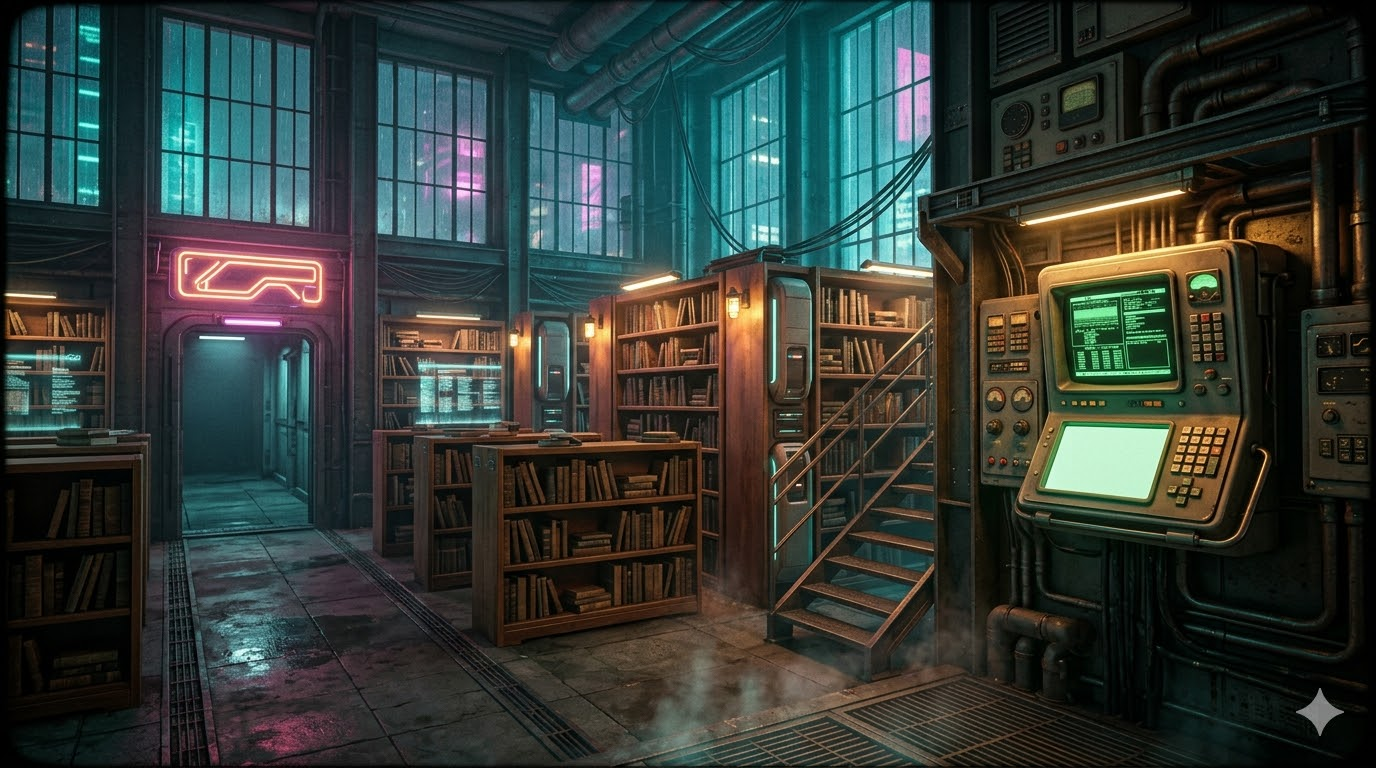
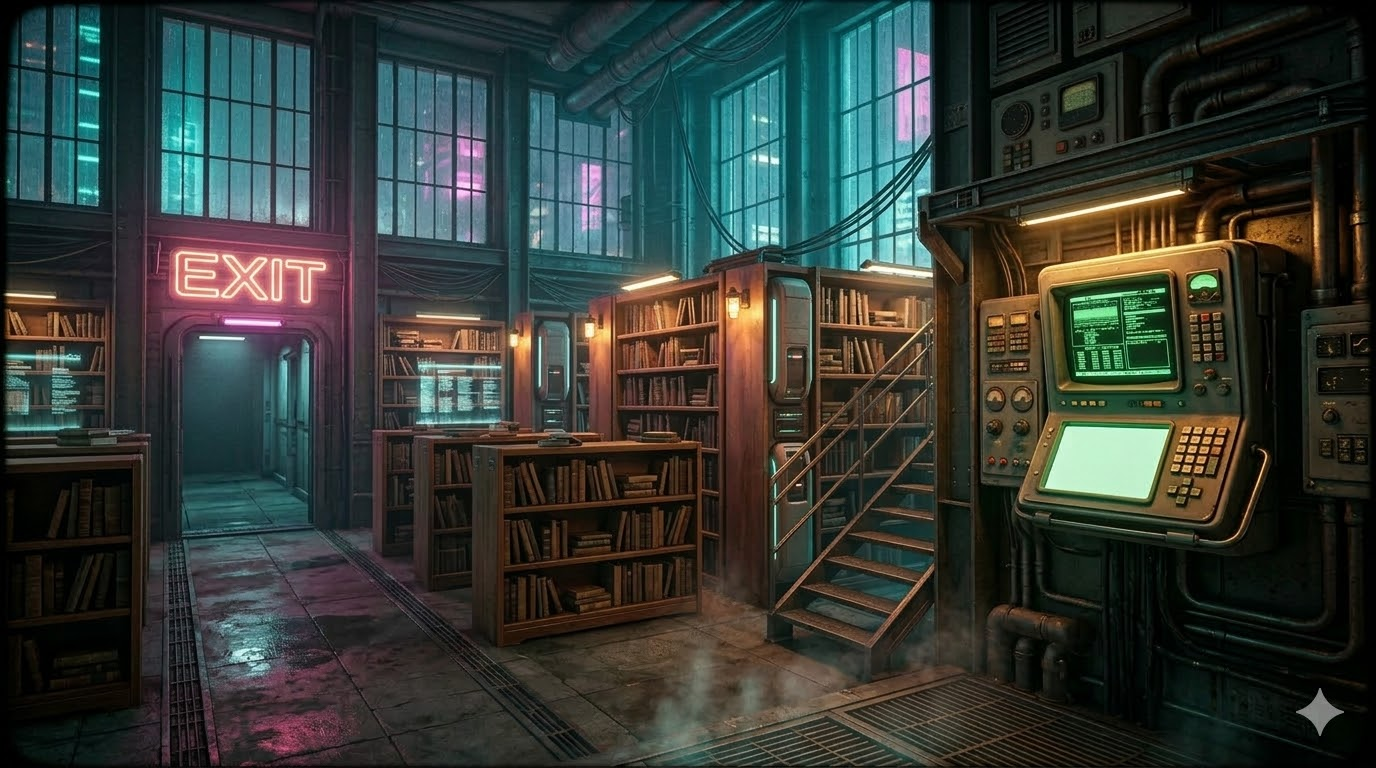
City: Doors list from current scene only — update on setScene and postMessage(file), no iframe read; gesture-bridge sends file
Made-with: Cursor

diff --git a/city/shell.html b/city/shell.html
@@ -60,7 +60,7 @@
       display: flex;
       flex-wrap: wrap;
       align-items: flex-start;
-      justify-content: space-between;
+      justify-content: flex-end;
       gap: 0.5rem;
       padding: 0.5rem 0.75rem;
       pointer-events: none;
@@ -123,52 +123,90 @@
       box-shadow: 0 0 14px rgb(var(--accent-rgb) / 0.2);
     }
 
-    .chrome .links {
-      max-width: 34rem;
-      border: 1px solid rgb(var(--accent-rgb) / 0.2);
-      border-radius: 12px;
-      background: rgb(6 12 18 / 0.35);
-      backdrop-filter: blur(16px);
-      -webkit-backdrop-filter: blur(16px);
-      padding: 0.4rem 0.6rem;
-      box-shadow:
-        0 0 20px rgb(var(--accent-rgb) / 0.05),
-        inset 0 1px 0 rgb(255 255 255 / 0.04);
-    }
-    .chrome .links summary {
-      cursor: pointer;
-      color: var(--text);
-      font-size: 0.9rem;
+    .chrome .controls .links {
       display: flex;
       align-items: center;
-      gap: 0.4rem;
+      position: relative;
+      border: none;
+      background: transparent;
+      padding: 0;
+      margin: 0;
+      max-width: none;
     }
-    .chrome .links summary::before {
+    .chrome .controls .links summary {
+      cursor: pointer;
+      list-style: none;
+      display: flex;
+      align-items: center;
+      justify-content: center;
+      min-width: 2.5rem;
+      min-height: 2.5rem;
+      padding: 0;
+      border: 1px solid transparent;
+      border-radius: 10px;
+      background: rgb(255 255 255 / 0.03);
+      font-size: 1.25rem;
+      line-height: 1;
+      color: var(--text-muted);
+      transition: border-color 0.15s, box-shadow 0.15s, background 0.15s;
+    }
+    .chrome .controls .links summary::-webkit-details-marker,
+    .chrome .controls .links summary::marker { display: none; }
+    .chrome .controls .links summary::before {
       content: "🗺";
       font-size: 1.1rem;
     }
-    .chrome .links p {
-      margin: 0.3rem 0 0.45rem;
+    .chrome .controls .links summary:hover {
+      background: rgb(var(--accent-rgb) / 0.08);
+      border-color: rgb(var(--accent-rgb) / 0.4);
+      box-shadow: 0 0 12px rgb(var(--accent-rgb) / 0.15);
+    }
+    .chrome .controls .links summary:focus-visible {
+      outline: 2px solid rgb(var(--accent-rgb) / 0.5);
+      outline-offset: 2px;
+    }
+    .chrome .controls .links[open] summary {
+      background: rgb(var(--accent-rgb) / 0.12);
+      border-color: rgb(var(--accent-rgb) / 0.45);
+      box-shadow: 0 0 14px rgb(var(--accent-rgb) / 0.2);
+    }
+    .chrome .controls .links .links-dropdown {
+      position: absolute;
+      bottom: 100%;
+      right: 0;
+      margin: 0 0 0.35rem 0;
+      padding: 0.4rem 0.6rem;
+      border-radius: 12px;
+      background: rgb(6 14 22 / 0.96);
+      border: 1px solid rgb(var(--accent-rgb) / 0.2);
+      box-shadow: 0 0 20px rgb(var(--accent-rgb) / 0.08);
+      min-width: 14rem;
+      max-width: 34rem;
+      max-height: 60vh;
+      overflow: auto;
+    }
+    .chrome .controls .links .links-dropdown p {
       color: var(--text-muted);
       font-size: 0.82rem;
+      margin: 0 0 0.25rem 0;
     }
-    .chrome .links ul {
+    .chrome .controls .links .links-dropdown ul {
       list-style: none;
       padding: 0;
-      margin: 0.45rem 0 0;
+      margin: 0;
       display: grid;
       gap: 0.35rem;
     }
-    .chrome .links a {
+    .chrome .controls .links a {
       color: var(--text);
       text-decoration: none;
       border-bottom: 1px solid transparent;
     }
-    .chrome .links a:hover {
+    .chrome .controls .links a:hover {
       color: rgb(var(--accent-rgb));
       border-bottom-color: rgb(var(--accent-rgb) / 0.55);
     }
-    .chrome .links a:focus-visible {
+    .chrome .controls .links a:focus-visible {
       outline: 2px solid rgb(var(--accent-rgb) / 0.45);
       outline-offset: 2px;
       border-bottom-color: transparent;
@@ -223,13 +261,14 @@
       <button type="button" id="fullscreen-toggle" class="fullscreen-btn" aria-label="Fullscreen" title="Fullscreen">⛶</button>
       <button type="button" id="spot-toggle" aria-pressed="false" aria-label="Toggle flashlight" title="Flashlight">🔦</button>
       <button type="button" id="music-toggle" aria-pressed="false" aria-label="Toggle music" title="Music — Neon Drift">🎵</button>
-      <a href="../index.html" target="_top" aria-label="Exit" title="Exit">⬅</a>
+      <details class="links" id="shell-links">
+        <summary aria-label="Doors / Scene links"></summary>
+        <div class="links-dropdown">
+          <p id="shell-links-desc">Doors and signs in this scene.</p>
+          <ul id="shell-links-list"></ul>
+        </div>
+      </details>
     </div>
-    <details class="links" id="shell-links">
-      <summary aria-label="Doors / Scene links">Doors</summary>
-      <p id="shell-links-desc">Doors and signs in this scene.</p>
-      <ul id="shell-links-list"></ul>
-    </details>
   </div>
   <iframe class="frame" id="city-frame" src="index.html" title="City"></iframe>
   <div class="spot-overlay" id="spot-overlay" aria-hidden="true"></div>
@@ -243,12 +282,16 @@
       var frame = document.getElementById('city-frame');
       if (!frame) return;
 
+      var currentSceneFile = 'index.html';
+
       function setScene(path) {
         if (!path) return;
         if (/^(https?:|data:|blob:|javascript:)/i.test(path)) return;
         if (path.indexOf('..') !== -1) return;
         if (path.indexOf('/') !== -1) return;
         if (!/\.html($|\?)/i.test(path)) return;
+        currentSceneFile = path.split('?')[0].split('/').pop() || path;
+        updateDoorsList(currentSceneFile);
         frame.src = path;
       }
 
@@ -308,15 +351,6 @@
         ]
       };
 
-      function getFrameFilename() {
-        try {
-          var src = frame.src || '';
-          var path = src.split('?')[0] || '';
-          var name = path.split('/').pop() || '';
-          return name || 'index.html';
-        } catch (e) { return 'index.html'; }
-      }
-
       function addLinkToList(list, item) {
         var li = document.createElement('li');
         var newA = document.createElement('a');
@@ -339,67 +373,26 @@
         list.appendChild(li);
       }
 
-      function syncLinksFromFrame() {
+      function updateDoorsList(file) {
         var list = document.getElementById('shell-links-list');
-        var desc = document.getElementById('shell-links-desc');
         if (!list) return;
         list.innerHTML = '';
-        var hasLinks = false;
-        try {
-          var doc = frame.contentDocument;
-          if (doc) {
-            var sceneLinks = doc.querySelector('.links');
-            if (sceneLinks) {
-              var summaryEl = sceneLinks.querySelector('summary');
-              var pEl = sceneLinks.querySelector('p');
-              var ul = sceneLinks.querySelector('ul');
-              if (summaryEl) {
-                var shellSummary = document.querySelector('#shell-links summary');
-                if (shellSummary) shellSummary.textContent = summaryEl.textContent;
-              }
-              if (pEl && desc) desc.textContent = pEl.textContent;
-              if (ul) {
-                var links = ul.querySelectorAll('a');
-                for (var i = 0; i < links.length; i++) {
-                  var a = links[i];
-                  var li = document.createElement('li');
-                  var newA = document.createElement('a');
-                  var href = a.getAttribute('href') || '';
-                  newA.textContent = a.textContent.trim();
-                  newA.setAttribute('href', href);
-                  if (/^https?:/i.test(href)) {
-                    newA.setAttribute('target', '_blank');
-                    newA.setAttribute('rel', 'noopener');
-                  } else {
-                    newA.addEventListener('click', function (e) {
-                      var targetHref = this.getAttribute('href');
-                      if (targetHref && !/^https?:/i.test(targetHref)) {
-                        e.preventDefault();
-                        setScene(targetHref);
-                      }
-                    });
-                  }
-                  li.appendChild(newA);
-                  list.appendChild(li);
-                  hasLinks = true;
-                }
-              }
-            }
-          }
-        } catch (err) {}
-        if (!hasLinks && list.children.length === 0) {
-          var filename = getFrameFilename();
-          var items = FALLBACK_LINKS[filename];
-          if (items) {
-            for (var j = 0; j < items.length; j++) addLinkToList(list, items[j]);
-          }
+        var items = FALLBACK_LINKS[file];
+        if (items) {
+          for (var i = 0; i < items.length; i++) addLinkToList(list, items[i]);
         }
       }
 
-      frame.addEventListener('load', syncLinksFromFrame);
-      if (frame.contentDocument && frame.contentDocument.readyState === 'complete') {
-        syncLinksFromFrame();
-      }
+      window.addEventListener('message', function (e) {
+        if (!e || !e.data || e.data.type !== 'city:scene') return;
+        var file = e.data.file;
+        if (file && typeof file === 'string') {
+          currentSceneFile = file.split('?')[0].split('/').pop() || file;
+          updateDoorsList(currentSceneFile);
+        }
+      });
+
+      updateDoorsList(currentSceneFile);
 
       var reduceMotion = window.matchMedia && window.matchMedia('(prefers-reduced-motion: reduce)').matches;
       var spotKey = 'city-flashlight';
@@ -410,7 +403,7 @@
       var lastY = window.innerHeight / 2;
 
       function isSpotOn() {
-        try { return localStorage.getItem(spotKey) !== 'off'; } catch (e) { return true; }
+        try { return localStorage.getItem(spotKey) === 'on'; } catch (e) { return false; }
       }
       function setSpotOn(on) {
         try { localStorage.setItem(spotKey, on ? 'on' : 'off'); } catch (e) {}

diff --git a/city/gesture-bridge.js b/city/gesture-bridge.js
@@ -41,7 +41,8 @@
   function sendScene() {
     try {
       var info = sceneInfo();
-      window.parent.postMessage({ type: 'city:scene', scene: info.scene, env: info.env }, '*');
+      var file = filename();
+      window.parent.postMessage({ type: 'city:scene', scene: info.scene, env: info.env, file: file || 'index.html' }, '*');
     } catch (_) {}
   }
 

diff --git a/city/hotel.html b/city/hotel.html
@@ -143,7 +143,7 @@
         <rect x="200" y="400" width="280" height="350" rx="14" ry="14"></rect>
       </a>
       <a href="station.html" aria-label="Station">
-        <rect x="1000" y="180" width="350" height="400" rx="14" ry="14"></rect>
+        <rect x="1000" y="180" width="350" height="300" rx="14" ry="14"></rect>
       </a>
     </svg>
 

diff --git a/city/lobby.html b/city/lobby.html
@@ -242,7 +242,7 @@
 
       hallEntrance.addEventListener('click', function (e) {
         e.preventDefault();
-        if (!confirm('Вам уже исполнилось 21 год?')) return;
+        if (!confirm('Are you 21 years old?')) return;
         img.src = gifUrl;
         img.alt = 'Hall';
         overlay.classList.add('is-open');
